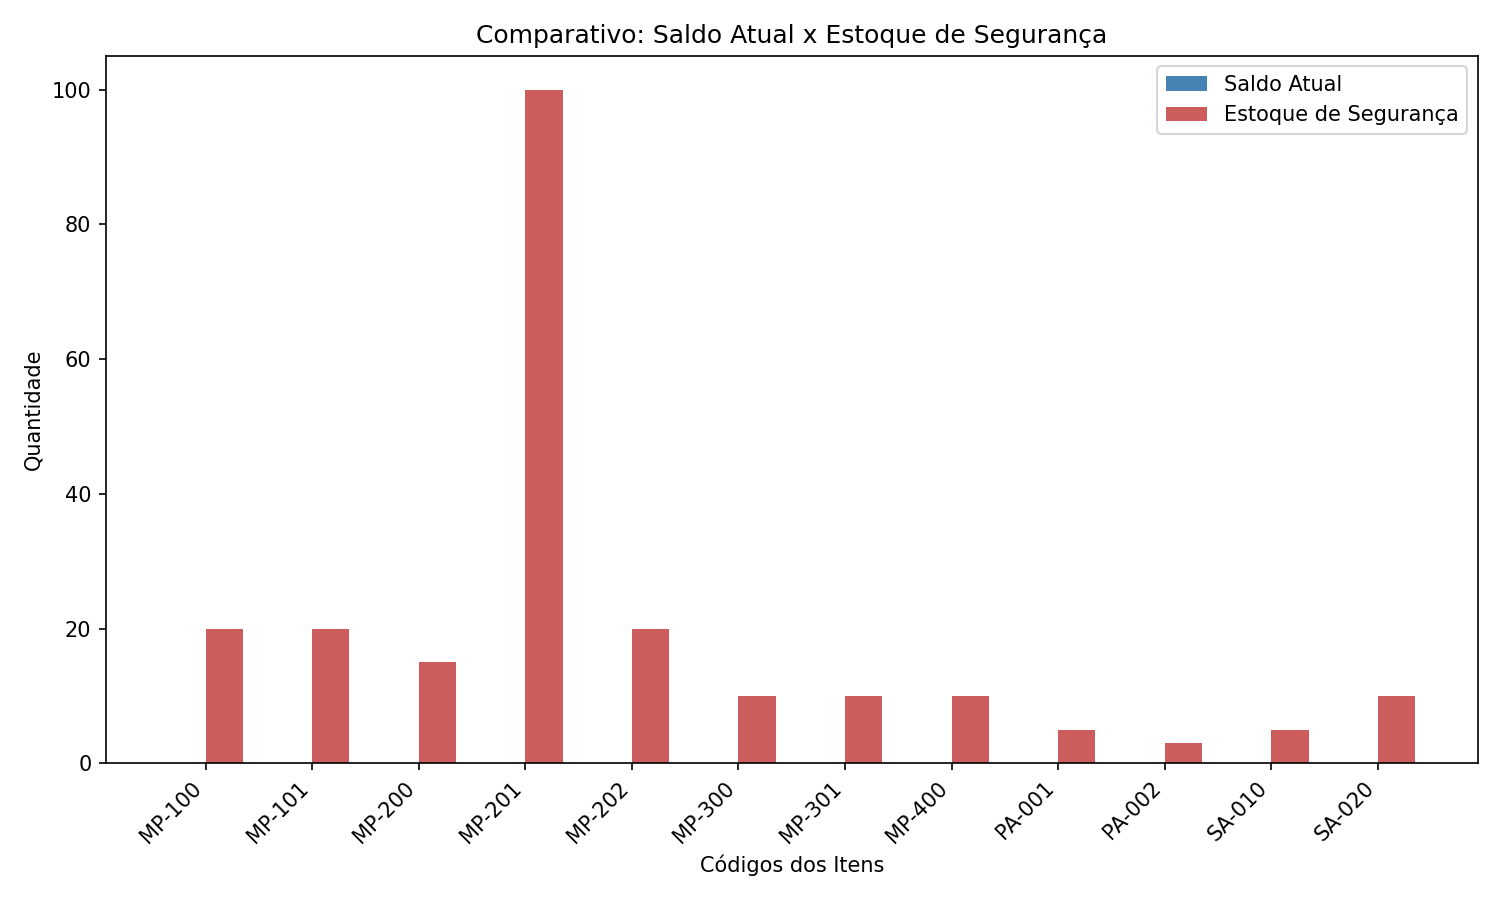
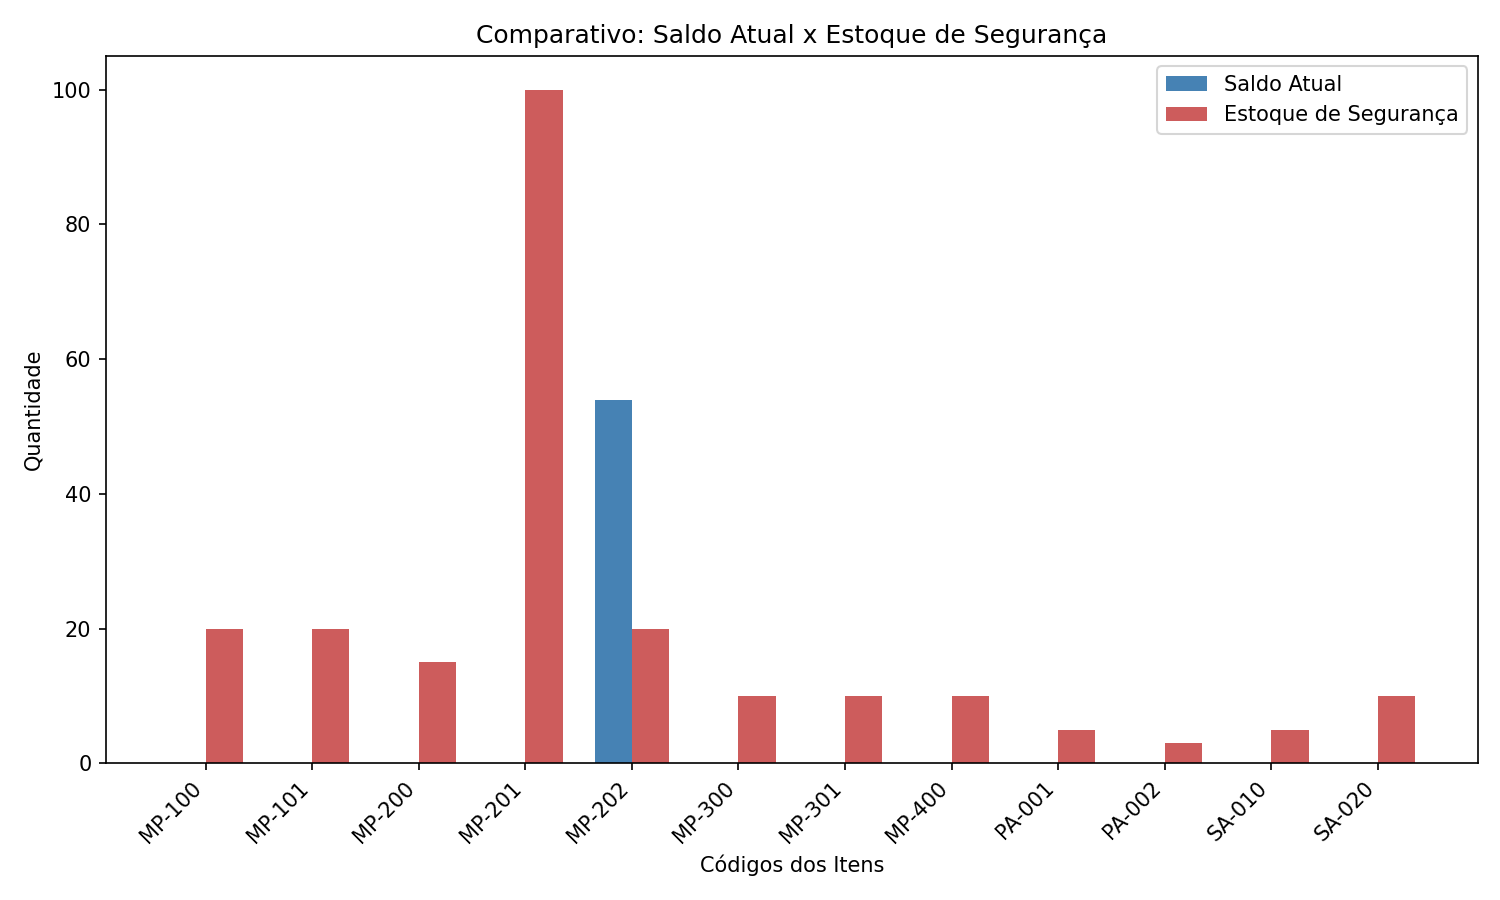
docs: adiciona link do vídeo de demonstração e atualiza dados

Changed region(s): [[0.3987, 0.4356, 0.4293, 0.8711]]

diff --git a/README.md b/README.md
@@ -2,6 +2,8 @@
 
 Sistema de Planejamento dos Recursos de Manufatura (MRP II) desenvolvido em Python para a fábrica fictícia **Pedal Forte Bicicletas Ltda.** (Divinópolis - MG), no contexto da disciplina de Programação em Python do curso de Engenharia de Computação do CEFET-MG (Campus Divinópolis), sob orientação do Prof. Guido Pantuza.
 
+- **Vídeo de demonstração do projeto:** [Assistir no YouTube](https://youtu.be/AvBBmq72c_s)
+
 ## 1. Visão Geral do Projeto
 
 O sistema substitui controles manuais em planilhas por um fluxo integrado de planejamento e controle da produção e estoques em um horizonte de **8 semanas**. A cada ciclo, o sistema apoia a tomada de decisão sobre o que produzir ou comprar, em quais quantidades, em quais semanas e com qual impacto sobre capacidade produtiva, estoques e custos padrão.
@@ -92,6 +94,10 @@ Ao encerrar o programa pela opção `0. Sair` (ou ao finalizar o bloco `finally`
 6. **CRP e Custos (Opções 6 e 7):** Verificar carga versus capacidade dos centros de trabalho e calcular/atualizar o custo padrão dos itens.
 7. **Relatórios e Gráficos (Opções 8 e 9):** Exportar os relatórios CSV e gerar os gráficos de acompanhamento em PNG na pasta `data/`.
 
-## 7. Autor
+## 7. Demonstração em Vídeo
+
+- **Vídeo de demonstração:** [https://youtu.be/AvBBmq72c_s](https://youtu.be/AvBBmq72c_s)
+
+## 8. Autor
 
 - **Vinícius Souza Vazquez** — Engenharia da Computação, UFCI-MG Campus Divinópolis.
